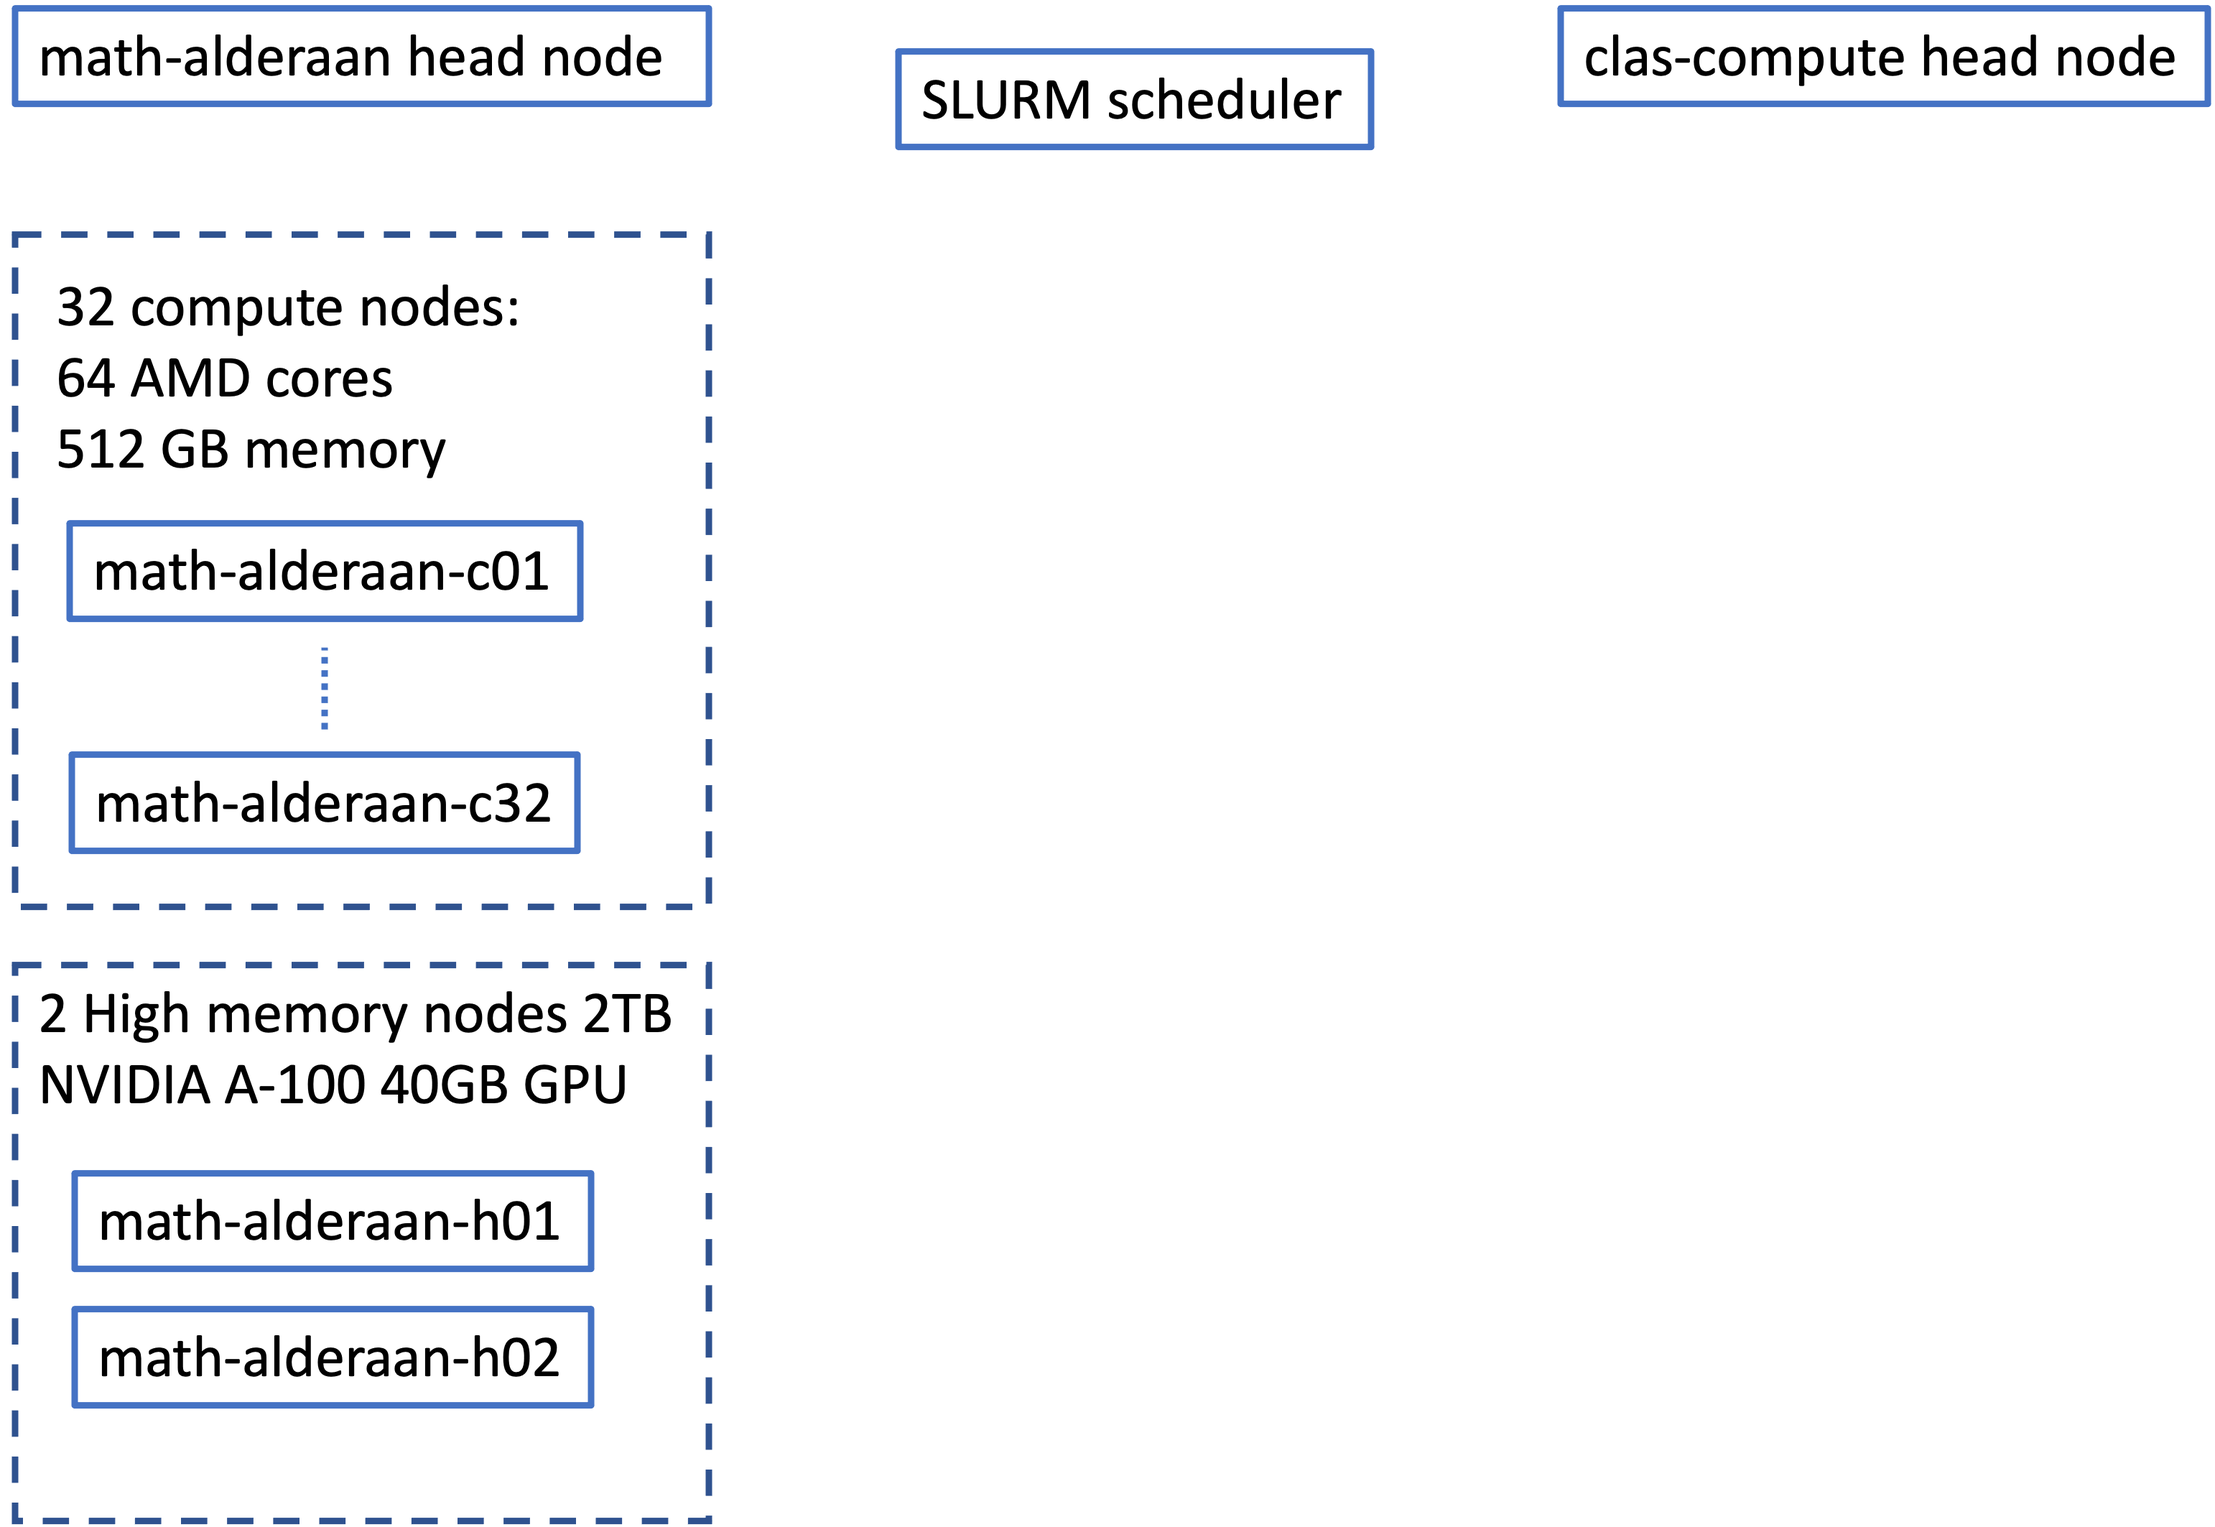
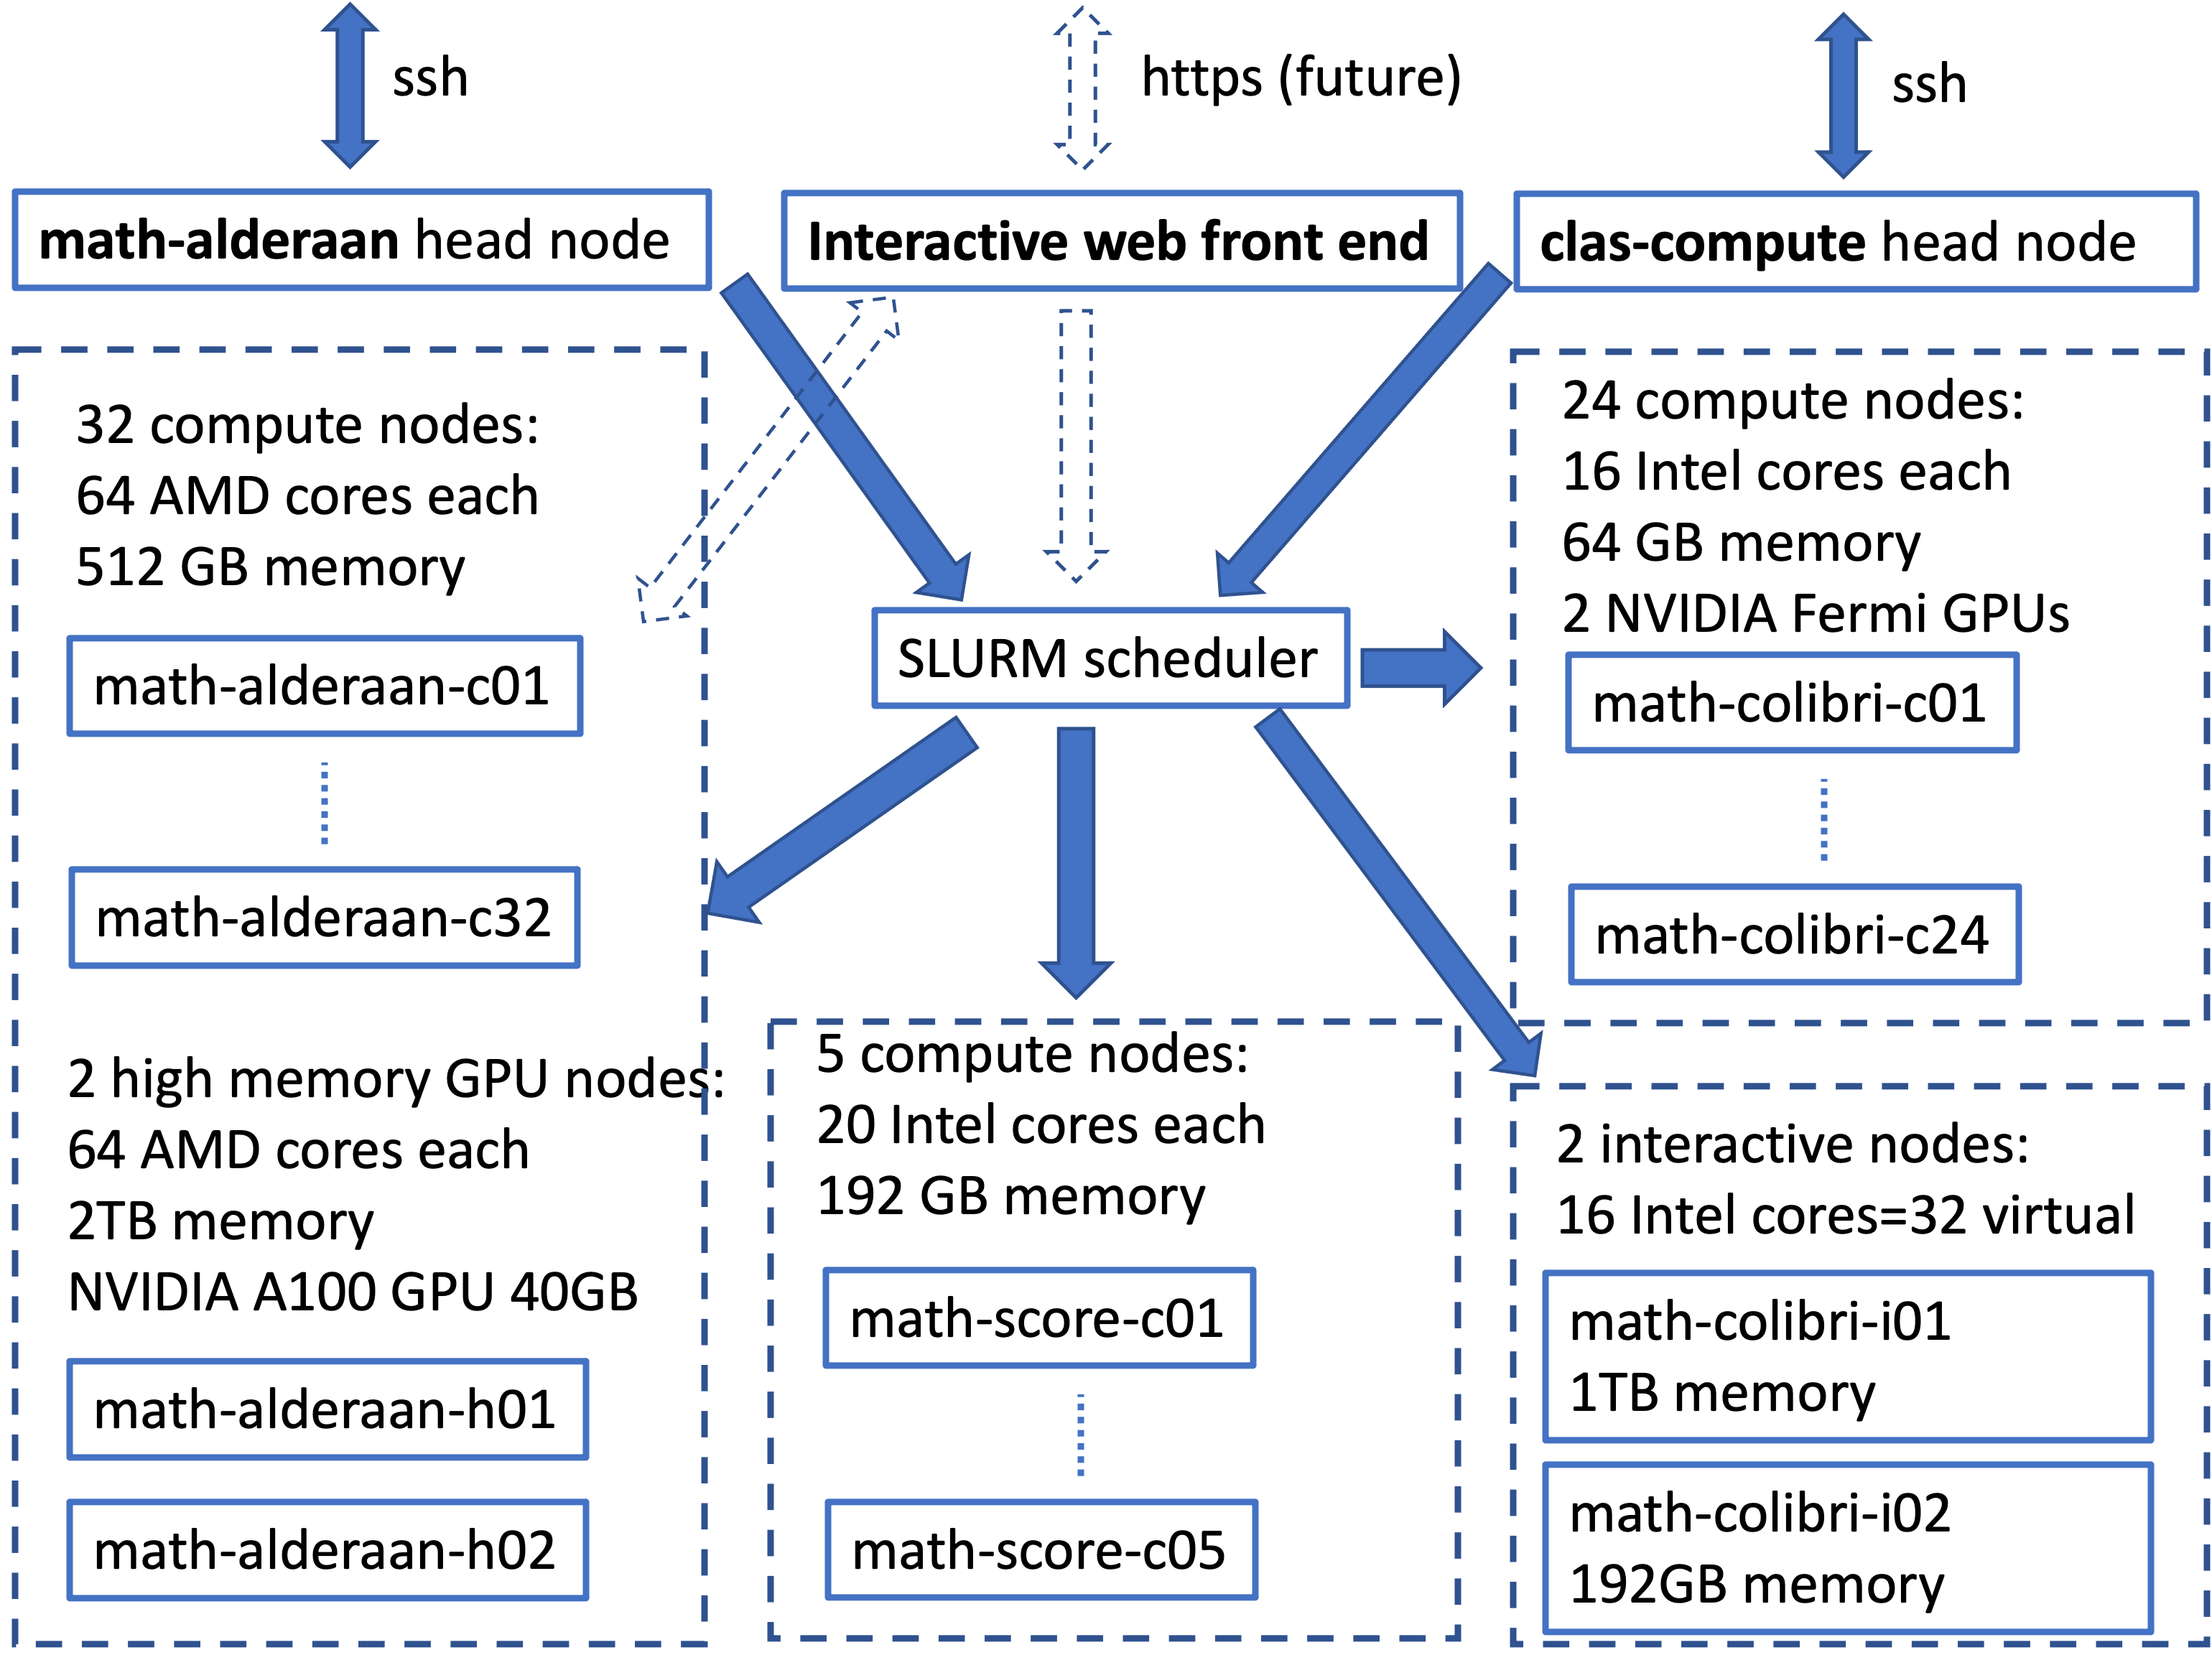
clusters fig complete

Changed region(s): [[0.0, 0.0, 1.0, 1.0], [0.3429, 0.9003, 0.6234, 0.9934], [0.9974, 0.1863, 1.0, 0.6209]]

diff --git a/docs/colibri.md b/docs/colibri.md
@@ -5,9 +5,8 @@ This cluster was funded by NSF grant [GPU Cluster for Computing Research](http:/
 ## Hardware
 The cluster consists of 24 compute nodes each equipped with two Intel CPUs with 16 cores each and two [Fermi](http://www.nvidia.com/object/fermi_architecture.html NVIDIA Fermi) GPUs, connected by InfiniBand. Please see the [legacy Colibri page](http://math.ucdenver.edu/colibri) for more details on the hardware. It was delivered by HP in 2013. 
 ## Software
-In 2014, the HP license on software run out and the cluster was reinstalled with Rocks+ by StackIQ. As of late 2021, the head node and nodes 1-12 are running the now legacy Rocks+ cluster system, and the [original documentation](http://ccm.ucdenver.edu/wiki/Category:Colibri_cluster) still applies to them. 
+In 2014, the HP license on software run out and the cluster was reinstalled with Rocks+ by StackIQ, see the [original documentation](http://ccm.ucdenver.edu/wiki/Category:Colibri_cluster) In 2021-2022, Colibri nodes were reinstalled with Centos 7 and integrated here. 
 ## How to Use
-The legacy head node is accessed by ssh to colibri.ucdenver.pvt.
-Nodes 13-24 are accessed through the [common cluster scheduler](../clusters_guide). 
+    Colibri compute nodes are accessible from both math-alderaan and clas-compute nodes throug the [common scheduler](../clusters_guide). 
 
 
